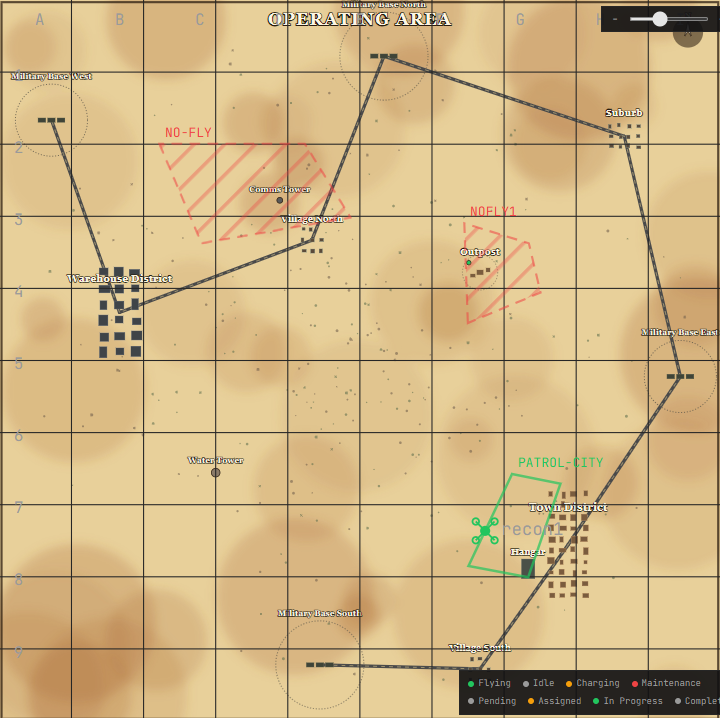
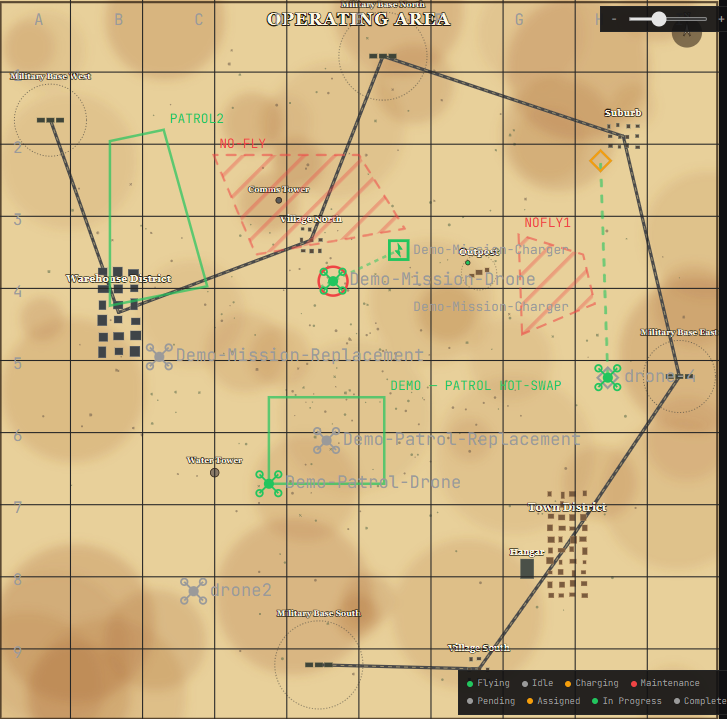
Update pitch presentation with enhanced diagrams and content adjustments

Changed region(s): [[0.0, 0.0, 1.0, 1.0], [0.3667, 0.1226, 0.4278, 0.1532]]

diff --git a/pitch.html b/pitch.html
@@ -974,7 +974,7 @@ body.editing .figure text{ outline:1px dashed var(--accent); outline-offset:2px;
 
 
 <!-- ==========================================================================
-     14 · הענן (slot: architecture.drawio page 13)
+     14 · הענן
      ========================================================================== -->
 <section class="slide">
   <div class="head">
@@ -986,11 +986,53 @@ body.editing .figure text{ outline:1px dashed var(--accent); outline-offset:2px;
     <h2 class="reveal">איפה זה בעצם רץ</h2>
     <div class="rule reveal"></div>
     <p class="lede reveal">הכל רץ בענן של אמזון, ברשת פרטית וסגורה.</p>
-    <div class="slot reveal">
-      <svg viewBox="0 0 24 24"><rect x="3" y="3" width="7" height="7"></rect><rect x="14" y="3" width="7" height="7"></rect><rect x="3" y="14" width="7" height="7"></rect><rect x="14" y="14" width="7" height="7"></rect><path d="M10 6.5h4M6.5 10v4M17.5 10v4M10 17.5h4"></path></svg>
-      <span class="s-label" dir="ltr">DIAGRAM</span>
-      <span class="s-note">architecture.drawio, עמוד 13</span>
+    <div class="figure reveal">
+      <!-- Simplified from architecture.drawio page 13 (AWS Account / Region / VPC /
+           AZ) down to the four levels that matter for a pitch read from across a
+           room: the account, the region, the private VPC, and the two zones that
+           give it redundancy. The full diagram's subnets, NAT gateways and IAM
+           detail live in the source file, not here. -->
+      <svg viewBox="0 0 700 250" role="img" aria-label="חשבון AWS, אזור us-east-1, VPC פרטי המשתרע על שני אזורי זמינות עם EKS בכל אחד">
+        <defs>
+          <marker id="a13" viewBox="0 0 10 10" refX="9" refY="5" markerWidth="5" markerHeight="5" orient="auto">
+            <path d="M0 0 L10 5 L0 10 z" fill="#111110"></path>
+          </marker>
+        </defs>
+
+        <g class="node n1">
+          <text class="t-sm" x="652" y="112" text-anchor="middle">מהאינטרנט</text>
+          <path class="wire" d="M666 125 H612" marker-end="url(#a13)"></path>
+        </g>
+
+        <g class="node n2">
+          <rect class="box" x="30" y="6" width="582" height="238"></rect>
+          <text class="t-sm" x="321" y="28" text-anchor="middle">חשבון AWS · SwarmOps</text>
+        </g>
+
+        <g class="node n3">
+          <rect class="box" x="55" y="44" width="532" height="186"></rect>
+          <text class="t-sm" x="321" y="66" text-anchor="middle">אזור us-east-1</text>
+        </g>
+
+        <g class="node n4">
+          <rect class="box-line-hot" x="80" y="82" width="482" height="134"></rect>
+          <text x="321" y="104" text-anchor="middle" fill="#ff3300">VPC פרטי</text>
+        </g>
+
+        <g class="node n5">
+          <rect class="box" x="100" y="122" width="205" height="80"></rect>
+          <text x="202" y="150" text-anchor="middle">אזור זמינות A</text>
+          <text class="t-sm" x="202" y="174" text-anchor="middle">EKS</text>
+        </g>
+
+        <g class="node n6">
+          <rect class="box" x="337" y="122" width="205" height="80"></rect>
+          <text x="439" y="150" text-anchor="middle">אזור זמינות B</text>
+          <text class="t-sm" x="439" y="174" text-anchor="middle">EKS</text>
+        </g>
+      </svg>
     </div>
+    <p class="note reveal">שני אזורי זמינות, כדי שנפילה של אחד לא תהפוך את המערכת לבלתי שמישה.</p>
   </div>
 </section>
 
@@ -1038,7 +1080,7 @@ body.editing .figure text{ outline:1px dashed var(--accent); outline-offset:2px;
         </g>
       </svg>
     </div>
-    <p class="note reveal">המנוף הוא <b>הזמן, לא התעריף</b>. כיבינו את הסביבה בסוף כל יום עבודה.</p>
+    <p class="note reveal">על מנת לצמצם חיובים בתהליך הפיתוח<br>כיבינו את הסביבה בסוף כל יום עבודה.</p>
   </div>
 </section>
 
@@ -1072,7 +1114,7 @@ body.editing .figure text{ outline:1px dashed var(--accent); outline-offset:2px;
 
         <g class="node n2">
           <rect class="box-hot" x="245" y="26" width="196" height="86"></rect>
-          <text class="t-out" x="343" y="77" text-anchor="middle" dir="ltr">Argo</text>
+          <text class="t-out" x="343" y="77" text-anchor="middle" dir="ltr">ArgoCD</text>
         </g>
         <path class="wire" d="M241 69 H201" marker-end="url(#a14)"></path>
 
@@ -1084,11 +1126,11 @@ body.editing .figure text{ outline:1px dashed var(--accent); outline-offset:2px;
         <!-- The old single caption ran ~29 characters wide, past the 242-unit
              gap between box centres. One short caption per box instead. -->
         <text class="t-sm node n1" x="585" y="142" text-anchor="middle">הצוות כותב שינוי</text>
-        <text class="t-sm node n2" x="343" y="142" text-anchor="middle">משווה קוד למה שרץ</text>
-        <text class="t-sm node n3" x="102" y="142" text-anchor="middle">בלי שנוגעים בשרת</text>
+        <text class="t-sm node n2" x="343" y="142" text-anchor="middle">ארגו משווה קוד למה שרץ בפועל</text>
+        <text class="t-sm node n3" x="102" y="142" text-anchor="middle">מתעדכן בלי התערבות ידנית בשרת</text>
       </svg>
     </div>
-    <p class="note reveal">גרסה חדשה יוצאת <b>בהדרגה</b>: קודם לחלק קטן. אם המדידה מראה בעיה, היא נעצרת וחוזרת אחורה לבד.</p>
+    <p class="note reveal">גרסה חדשה יוצאת <b>בהדרגה</b>: קודם לחלק קטן מהמשתמשים. אם המדידה האוטומטית של כמות השגיאות מראה כמות שגיאות גדולה, הפריסה נעצרת וחוזרת אחורה לבד.</p>
   </div>
 </section>
 
@@ -1190,10 +1232,10 @@ body.editing .figure text{ outline:1px dashed var(--accent); outline-offset:2px;
     <h2 class="reveal">מגבלות ועמידות</h2>
     <div class="rule reveal"></div>
     <ul class="points reveal">
-      <li class="st"><span class="tagpill ok" dir="ltr">OK</span><span>רק שער אחד חשוף לאינטרנט. כל שאר השירותים סגורים מבחוץ.</span></li>
+      <li class="st"><span class="tagpill ok" dir="ltr">OK</span><span>רק "שער" אחד חשוף לאינטרנט.<br>כל שאר השירותים סגורים לגישה מבחוץ.</span></li>
       <li class="st"><span class="tagpill ok" dir="ltr">OK</span><span>הכניסה לענן היא בהרשאה זמנית, בלי סיסמה קבועה ששמורה בקוד.</span></li>
-      <li class="st"><span class="tagpill ok" dir="ltr">OK</span><span>אם מישהו משנה משהו בשרת ידנית, המערכת מחזירה את עצמה למה שכתוב בקוד.</span></li>
-      <li class="st"><span class="tagpill tbd" dir="ltr">TBD</span><span><b>לשימוש צבאי:</b> עוד לא הגדרנו איפה המידע יישמר ואילו רחפנים מורשים להתחבר.</span></li>
+      <li class="st"><span class="tagpill ok" dir="ltr">OK</span><span>אם מישהו משנה משהו בשרת ידנית, המערכת (ArgoCD) מחזירה את עצמה למה שכתוב בקוד.</span></li>
+      <li class="st"><span class="tagpill tbd" dir="ltr">TBD</span><span><b>לשימוש צבאי:</b> התממשקות עם רשת צה"לנט תהיה פשוטה, התשתית כבר קיימת.</span></li>
     </ul>
   </div>
 </section>
@@ -1212,17 +1254,17 @@ body.editing .figure text{ outline:1px dashed var(--accent); outline-offset:2px;
     <h2 class="reveal">מה באמת למדנו</h2>
     <div class="rule reveal"></div>
     <div class="cards reveal">
-      <div class="card">
-        <span class="h">שש קטנות, לא אחת גדולה</span>
-        <span class="d">בנינו שש מערכות נפרדות. הקושי האמיתי הוא לגרום להן לדבר נכון ביניהן.</span>
+      <div class="card risk">
+        <span class="h">מה שרץ אצלי לא רץ בענן</span>
+        <span class="d">לעיתים, מה שרץ במחשב האישי לא רץ אותו דבר בענן, חשוב לוודא את כל התכונות של האפליקציה והפריסה בענן בעצמו.</span>
       </div>
       <div class="card risk">
         <span class="h">השקט הוא הסכנה</span>
-        <span class="d">כשמשהו קורס, מיד יודעים. כשמשהו טועה בשקט, מגלים מאוחר מדי.</span>
+        <span class="d">כשמשהו קורס, מיד יודעים. כשמשהו טועה בשקט, מגלים מאוחר מדי, לכן חשוב לוודא שאנחנו כותבים את הקוד ולא "לדחוף" לפני בדיקה.</span>
       </div>
-      <div class="card risk">
-        <span class="h">לתכנן מחדש, לא רק לתקן</span>
-        <span class="d">מערכת ששורדת בשטח לא קולעת נכון בפעם הראשונה. היא מתכננת מחדש כשהמציאות משתנה.</span>
+      <div class="card">
+        <span class="h">ניהול גרסאות בצוות</span>
+        <span class="d">בצוות, לעיתים כמה מפתחים רוצים "לדחוף" שינוי באותו הקובץ בו זמנית, לכן נדרש תיאום מראש.</span>
       </div>
     </div>
   </div>
@@ -1230,32 +1272,11 @@ body.editing .figure text{ outline:1px dashed var(--accent); outline-offset:2px;
 
 
 <!-- ==========================================================================
-     21 · מאחורי הקלעים (slot: behind-the-scenes video)
+     21 · סיום
      ========================================================================== -->
 <section class="slide">
   <div class="head">
     <span class="num">21</span>
-    <span class="mark"><img src="presentation-assets/logo-mark.png" alt="">SwarmOps</span>
-  </div>
-  <div class="main">
-    <p class="kicker reveal">מאחורי הקלעים</p>
-    <h2 class="reveal">איך זה נראה מבפנים</h2>
-    <div class="rule reveal"></div>
-    <div class="slot reveal">
-      <svg viewBox="0 0 24 24" style="fill:var(--muted); stroke:none;"><path d="M6 4l14 8-14 8V4z"></path></svg>
-      <span class="s-label" dir="ltr">VIDEO</span>
-      <span class="s-note">סרטון מאחורי הקלעים מתהליך הפיתוח</span>
-    </div>
-  </div>
-</section>
-
-
-<!-- ==========================================================================
-     22 · סיום
-     ========================================================================== -->
-<section class="slide">
-  <div class="head">
-    <span class="num">22</span>
     <span class="mark"><img src="presentation-assets/logo-mark.png" alt="">SwarmOps</span>
   </div>
   <div class="main">
